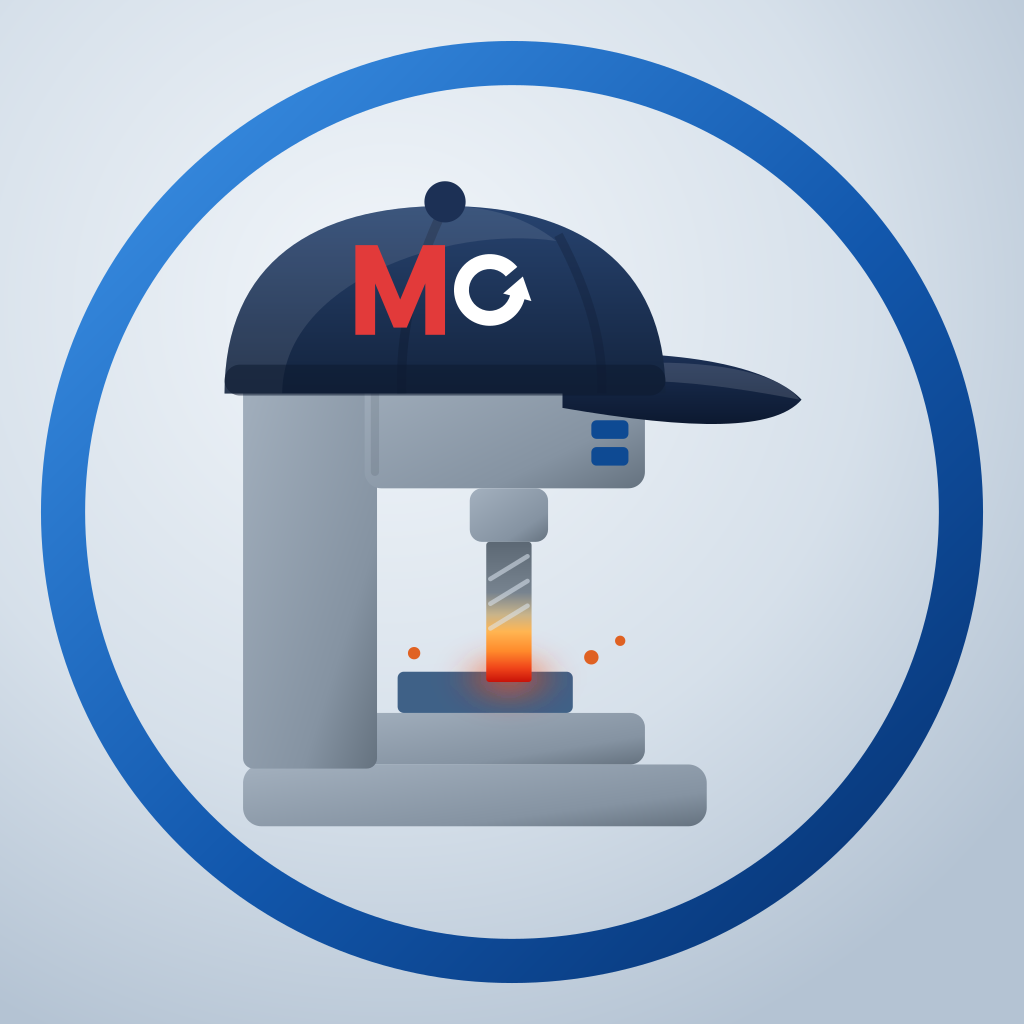
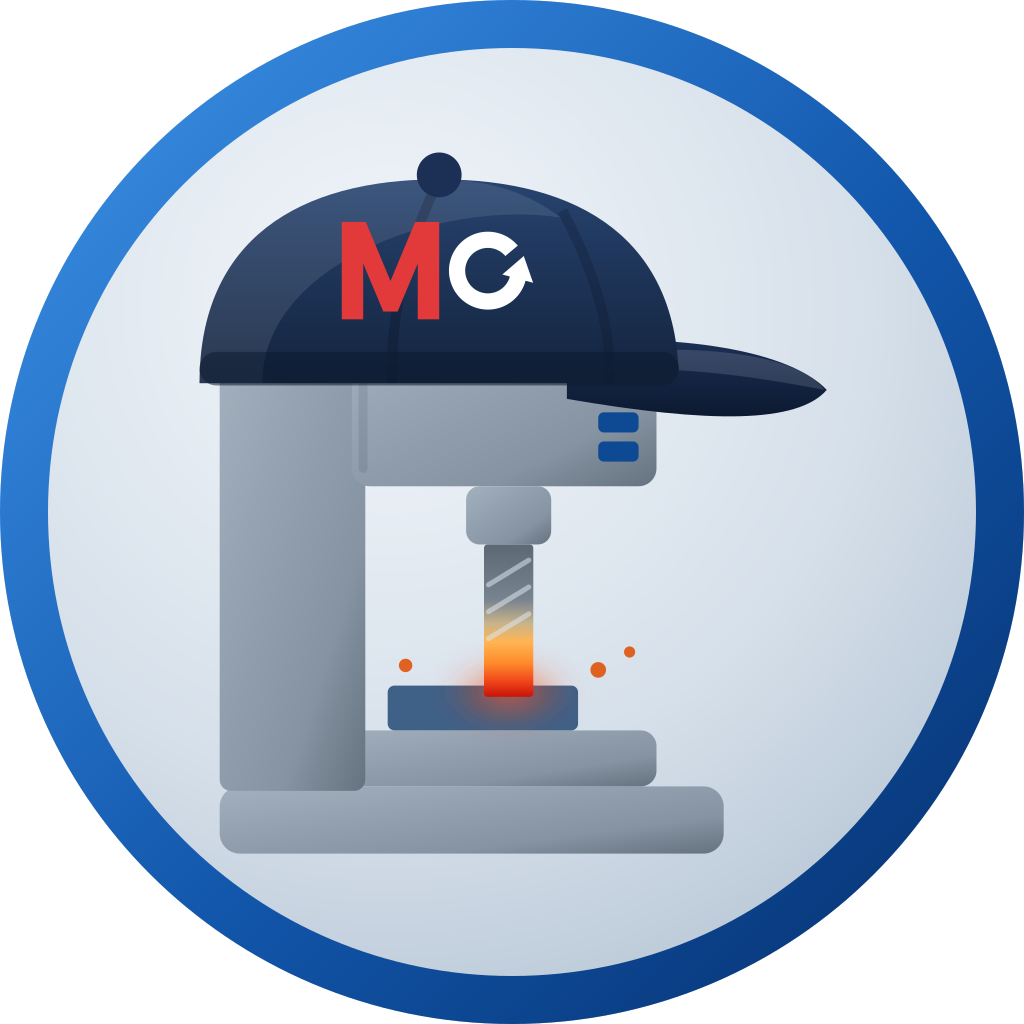
アイコンを透過の丸にした（iOS用の180だけ不透明）
透過にできるものは透過にした。不透明が必要なのは iOS だけ。

  icon-180.png           不透明・正方形          apple-touch-icon（iOSホーム画面）
  icon-maskable-512.png  不透明・正方形(絵80%)   Androidホーム画面
  icon-192/512/1024.png  透過・丸                ファビコン / manifest(any) / 紹介ページ

iOS は apple-touch-icon のアルファを黒で塗り潰す。しかも「ホーム画面に追加」
のとき iOS は manifest を無視して apple-touch-icon を見にいくので、
ここだけは不透明にするしかない。透過のまま渡すと角が黒く出て、
黒い板に丸が乗っただけの絵になる。

Android の maskable は外周20%が切られる。環の外径 r=512 のままだと欠けるので、
書き出し時に絵を80%（r=409.6 = 全体の40%）に縮めて安全領域へ収めた。

紹介ページのヒーローは、旧・四角アイコン用の角丸の板（border-radius:23% と
box-shadow）が残っていて丸の外に四角い影が出ていたので、drop-shadow に変えた。
box-shadow は矩形の影が出るため、透過PNGには使えない。

sw.js の VERSION を v3 に。検証中、削除済みの旧アイコンが v1 キャッシュから
200 で返ってきた（サーバー側は 404）。上げ忘れると利用者の端末で同じことが起きる。

diff --git a/index.html b/index.html
@@ -23,8 +23,10 @@ body{background:var(--bg);color:var(--ink);
 /* hero */
 .hero{padding:72px 0 56px;text-align:center;
   background:radial-gradient(ellipse at 50% -10%,rgba(79,195,247,.14),transparent 60%);}
-.hero .icon{width:104px;height:104px;border-radius:23%;margin-bottom:20px;
-  box-shadow:0 12px 40px rgba(0,0,0,.6);}
+/* アイコンは丸（外側は透過）。角丸の板を敷くと四角く見えてしまうので敷かない。
+   影も円に沿わせる（box-shadow だと矩形の影が出る） */
+.hero .icon{width:112px;height:112px;margin-bottom:20px;
+  filter:drop-shadow(0 12px 34px rgba(0,0,0,.55));}
 .hero h1{font-size:2.4rem;letter-spacing:.02em;margin-bottom:8px;}
 .hero .tag{color:var(--dim);font-size:1.02rem;margin-bottom:28px;}
 .dl{display:inline-flex;flex-direction:column;align-items:center;gap:4px;background:var(--ink);color:#0E1116;

diff --git a/sw.js b/sw.js
@@ -10,7 +10,7 @@
  * ★ ファイルを足したり中身を変えたら VERSION を上げること。
  *   上げ忘れると、利用者の端末に古い版が残り続ける。
  */
-const VERSION = "v2";   // v2: アイコンを iconv6（明るい背景＋鋼色の機械）に差し替え
+const VERSION = "v3";   // v3: アイコンを透過（丸）に。iOS用の180だけ不透明
 const CACHE = "mecha-gauge-" + VERSION;
 
 /* 端末に持たせておくもの。これだけで全機能がオフラインで動く */
@@ -23,7 +23,8 @@ const SHELL = [
   "./icons/icon-180.png",
   "./icons/icon-192.png",
   "./icons/icon-512.png",
-  "./icons/icon-1024.png"
+  "./icons/icon-1024.png",
+  "./icons/icon-maskable-512.png"
 ];
 
 self.addEventListener("install", (e) => {
